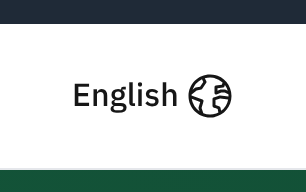
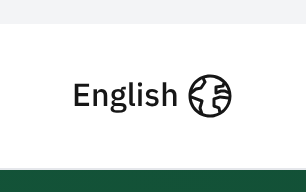
Apply the SDGA Home Page Template to the homepage
The user pointed to SDGA's Home Page Template in Figma. Our page already
had the same header, hero, card grids and footer, so only the parts that
differ or were missing are applied:

- Section headings: display-sm bold title, text-md description, and a
  40px outline button at the far end.
- Sections alternate white and neutral-50 with no borders.
- Tilawat stats follow the template's stats: open, centered, a 56px
  circle icon, a display-lg number and a label.
- New partners section (Tibyan) and a last-modified strip above the
  footer.
- The top notice is a neutral-100 strip in the Digital Stamp style. It
  keeps the unofficial-prototype text and makes no government claim.

The component images are re-shot, and DEV-GUIDE describes the changes.

Claude-Session: https://claude.ai/code/session_019S6Kq8qCNjTTt9ZTePhhkV

Changed region(s): [[0.0, 0.0, 1.0, 0.125]]

diff --git a/index.html b/index.html
@@ -13,11 +13,11 @@
 <script src="js/home.js" defer></script>
 <script src="js/proto-bar.js" defer></script>
 </head>
-<body class="bg-neutral-50 font-sans text-neutral-700 antialiased">
+<body class="bg-white font-sans text-neutral-700 antialiased">
 <a href="#main" class="sr-only z-50 rounded-sm bg-primary-600 px-4 py-2 text-white focus:not-sr-only focus:fixed focus:start-4 focus:top-2">تخطَّ إلى المحتوى</a>
 
-<div role="note" class="bg-neutral-800 px-4 py-2 text-center text-sm font-medium text-white">
-  نموذج تجريبي غير رسمي: الصفحة الرئيسية لمنصة الحرمين بأسلوب كود المنصات (DGA) · ليس الموقع الرسمي
+<div role="note" class="flex min-h-8 items-center bg-neutral-100 px-4 py-1.5 text-sm font-medium text-black sm:px-8">
+  نموذج تجريبي غير رسمي لمنصة الحرمين بأسلوب كود المنصات · ليس الموقع الرسمي
 </div>
 
 <header data-pc="dga-header-v2" class="sticky top-0 z-40 border-b border-neutral-200 bg-white">
@@ -63,12 +63,12 @@
 
   <section aria-labelledby="h-memory" class="mx-auto w-full max-w-[1280px] px-4 sm:px-6 xl:px-8 py-10 sm:py-16">
     
-    <div class="mb-6 flex flex-col items-start justify-between gap-4 sm:flex-row sm:items-end">
-      <div>
-        <h2 id="h-memory" class="text-display-xs font-bold text-neutral-800">ذاكرة الحرمين</h2>
-        <p class="mt-1 text-md text-neutral-500">مواد مختارة من أرشيف تسجيلات الحرمين</p>
+    <div class="mb-8 flex flex-col items-start justify-between gap-4 sm:flex-row">
+      <div class="flex flex-col gap-6">
+        <h2 id="h-memory" class="text-display-sm font-bold text-black">ذاكرة الحرمين</h2>
+        <p class="max-w-[964px] text-md text-black">مواد مختارة من أرشيف تسجيلات الحرمين</p>
       </div>
-      <button data-pc="dga-button-v2" type="button" data-out-of-scope class="inline-flex shrink-0 items-center justify-center gap-1 rounded-sm font-medium transition-colors h-8 px-3 text-sm bg-transparent text-black ring-1 ring-inset ring-neutral-300 hover:bg-neutral-100 active:bg-neutral-200"><span>عرض الكل</span></button>
+      <button data-pc="dga-button-v2" type="button" data-out-of-scope class="inline-flex shrink-0 items-center justify-center gap-1 rounded-sm font-medium transition-colors h-10 px-4 text-md bg-transparent text-black ring-1 ring-inset ring-neutral-300 hover:bg-neutral-100 active:bg-neutral-200"><span>عرض الكل</span></button>
     </div>
     <div data-pc="dga-tabs-v2" role="tablist" aria-label="تصفية حسب المكان" data-filter="memory" class="mb-6 flex overflow-x-auto border-b border-neutral-200"><button data-pc="dga-tab" type="button" role="tab" aria-selected="true" data-value="all" class="relative inline-flex shrink-0 items-center gap-2 px-4 py-3 text-sm font-medium text-neutral-600 transition-colors hover:bg-neutral-100 hover:text-black aria-selected:font-semibold aria-selected:text-black after:absolute after:inset-x-4 after:bottom-0 after:h-[3px] after:rounded-full after:bg-transparent hover:after:bg-neutral-300 aria-selected:after:bg-primary-600 aria-selected:hover:bg-transparent focus-visible:outline-3 focus-visible:-outline-offset-3 focus-visible:outline-black">الكل</button><button data-pc="dga-tab" type="button" role="tab" aria-selected="false" data-value="haram" class="relative inline-flex shrink-0 items-center gap-2 px-4 py-3 text-sm font-medium text-neutral-600 transition-colors hover:bg-neutral-100 hover:text-black aria-selected:font-semibold aria-selected:text-black after:absolute after:inset-x-4 after:bottom-0 after:h-[3px] after:rounded-full after:bg-transparent hover:after:bg-neutral-300 aria-selected:after:bg-primary-600 aria-selected:hover:bg-transparent focus-visible:outline-3 focus-visible:-outline-offset-3 focus-visible:outline-black">المسجد الحرام</button><button data-pc="dga-tab" type="button" role="tab" aria-selected="false" data-value="nabawi" class="relative inline-flex shrink-0 items-center gap-2 px-4 py-3 text-sm font-medium text-neutral-600 transition-colors hover:bg-neutral-100 hover:text-black aria-selected:font-semibold aria-selected:text-black after:absolute after:inset-x-4 after:bottom-0 after:h-[3px] after:rounded-full after:bg-transparent hover:after:bg-neutral-300 aria-selected:after:bg-primary-600 aria-selected:hover:bg-transparent focus-visible:outline-3 focus-visible:-outline-offset-3 focus-visible:outline-black">المسجد النبوي</button></div>
     <div id="grid-memory" class="grid grid-cols-[repeat(auto-fill,minmax(min(100%,272px),1fr))] gap-6">
@@ -162,15 +162,15 @@
       </article></div>
   </section>
 
-  <section aria-labelledby="h-lessons" class="border-y border-neutral-200 bg-white py-10 sm:py-16">
+  <section aria-labelledby="h-lessons" class="bg-neutral-50 py-10 sm:py-16">
     <div class="mx-auto w-full max-w-[1280px] px-4 sm:px-6 xl:px-8">
       
-    <div class="mb-6 flex flex-col items-start justify-between gap-4 sm:flex-row sm:items-end">
-      <div>
-        <h2 id="h-lessons" class="text-display-xs font-bold text-neutral-800">الدروس والمحاضرات</h2>
-        <p class="mt-1 text-md text-neutral-500">الدروس العلمية والدورات والمحاضرات التي قدّمها العلماء في الحرمين الشريفين</p>
+    <div class="mb-8 flex flex-col items-start justify-between gap-4 sm:flex-row">
+      <div class="flex flex-col gap-6">
+        <h2 id="h-lessons" class="text-display-sm font-bold text-black">الدروس والمحاضرات</h2>
+        <p class="max-w-[964px] text-md text-black">الدروس العلمية والدورات والمحاضرات التي قدّمها العلماء في الحرمين الشريفين</p>
       </div>
-      <button data-pc="dga-button-v2" type="button" data-out-of-scope class="inline-flex shrink-0 items-center justify-center gap-1 rounded-sm font-medium transition-colors h-8 px-3 text-sm bg-transparent text-black ring-1 ring-inset ring-neutral-300 hover:bg-neutral-100 active:bg-neutral-200"><span>عرض الكل</span></button>
+      <button data-pc="dga-button-v2" type="button" data-out-of-scope class="inline-flex shrink-0 items-center justify-center gap-1 rounded-sm font-medium transition-colors h-10 px-4 text-md bg-transparent text-black ring-1 ring-inset ring-neutral-300 hover:bg-neutral-100 active:bg-neutral-200"><span>عرض الكل</span></button>
     </div>
       <div data-pc="dga-tabs-v2" role="tablist" aria-label="تصفية حسب المكان" data-filter="lessons" class="mb-6 flex overflow-x-auto border-b border-neutral-200"><button data-pc="dga-tab" type="button" role="tab" aria-selected="true" data-value="all" class="relative inline-flex shrink-0 items-center gap-2 px-4 py-3 text-sm font-medium text-neutral-600 transition-colors hover:bg-neutral-100 hover:text-black aria-selected:font-semibold aria-selected:text-black after:absolute after:inset-x-4 after:bottom-0 after:h-[3px] after:rounded-full after:bg-transparent hover:after:bg-neutral-300 aria-selected:after:bg-primary-600 aria-selected:hover:bg-transparent focus-visible:outline-3 focus-visible:-outline-offset-3 focus-visible:outline-black">الكل</button><button data-pc="dga-tab" type="button" role="tab" aria-selected="false" data-value="haram" class="relative inline-flex shrink-0 items-center gap-2 px-4 py-3 text-sm font-medium text-neutral-600 transition-colors hover:bg-neutral-100 hover:text-black aria-selected:font-semibold aria-selected:text-black after:absolute after:inset-x-4 after:bottom-0 after:h-[3px] after:rounded-full after:bg-transparent hover:after:bg-neutral-300 aria-selected:after:bg-primary-600 aria-selected:hover:bg-transparent focus-visible:outline-3 focus-visible:-outline-offset-3 focus-visible:outline-black">المسجد الحرام</button><button data-pc="dga-tab" type="button" role="tab" aria-selected="false" data-value="nabawi" class="relative inline-flex shrink-0 items-center gap-2 px-4 py-3 text-sm font-medium text-neutral-600 transition-colors hover:bg-neutral-100 hover:text-black aria-selected:font-semibold aria-selected:text-black after:absolute after:inset-x-4 after:bottom-0 after:h-[3px] after:rounded-full after:bg-transparent hover:after:bg-neutral-300 aria-selected:after:bg-primary-600 aria-selected:hover:bg-transparent focus-visible:outline-3 focus-visible:-outline-offset-3 focus-visible:outline-black">المسجد النبوي</button></div>
       <div id="grid-lessons" class="grid grid-cols-[repeat(auto-fill,minmax(min(100%,272px),1fr))] gap-6">
@@ -267,12 +267,12 @@
 
   <section aria-labelledby="h-speeches" class="mx-auto w-full max-w-[1280px] px-4 sm:px-6 xl:px-8 py-10 sm:py-16">
     
-    <div class="mb-6 flex flex-col items-start justify-between gap-4 sm:flex-row sm:items-end">
-      <div>
-        <h2 id="h-speeches" class="text-display-xs font-bold text-neutral-800">الخطب المنبرية</h2>
-        <p class="mt-1 text-md text-neutral-500">خطب الجمعة والعيدين وعرفة والاستسقاء والكسوف</p>
+    <div class="mb-8 flex flex-col items-start justify-between gap-4 sm:flex-row">
+      <div class="flex flex-col gap-6">
+        <h2 id="h-speeches" class="text-display-sm font-bold text-black">الخطب المنبرية</h2>
+        <p class="max-w-[964px] text-md text-black">خطب الجمعة والعيدين وعرفة والاستسقاء والكسوف</p>
       </div>
-      <button data-pc="dga-button-v2" type="button" data-out-of-scope class="inline-flex shrink-0 items-center justify-center gap-1 rounded-sm font-medium transition-colors h-8 px-3 text-sm bg-transparent text-black ring-1 ring-inset ring-neutral-300 hover:bg-neutral-100 active:bg-neutral-200"><span>عرض الكل</span></button>
+      <button data-pc="dga-button-v2" type="button" data-out-of-scope class="inline-flex shrink-0 items-center justify-center gap-1 rounded-sm font-medium transition-colors h-10 px-4 text-md bg-transparent text-black ring-1 ring-inset ring-neutral-300 hover:bg-neutral-100 active:bg-neutral-200"><span>عرض الكل</span></button>
     </div>
     <div id="grid-speeches" class="grid grid-cols-[repeat(auto-fill,minmax(min(100%,272px),1fr))] gap-6">
       <article data-pc="dga-card-v2" data-place="haram" class="flex h-full min-w-0 flex-col rounded-lg border border-neutral-300 bg-white p-4 transition-shadow hover:shadow-md">
@@ -365,28 +365,28 @@
       </article></div>
   </section>
 
-  <section aria-labelledby="h-tilawat" class="border-y border-primary-200 bg-primary-25 py-10 sm:py-16">
+  <section aria-labelledby="h-tilawat" class="bg-neutral-50 py-10 sm:py-16">
     <div class="mx-auto w-full max-w-[1280px] px-4 sm:px-6 xl:px-8">
       
-    <div class="mb-6 flex flex-col items-start justify-between gap-4 sm:flex-row sm:items-end">
-      <div>
-        <h2 id="h-tilawat" class="text-display-xs font-bold text-neutral-800">التلاوات</h2>
-        <p class="mt-1 text-md text-neutral-500">تلاوات أئمة الحرمين في الصلوات والتراويح، وأدعية القنوت، والمصاحف الكاملة</p>
+    <div class="mb-8 flex flex-col items-start justify-between gap-4 sm:flex-row">
+      <div class="flex flex-col gap-6">
+        <h2 id="h-tilawat" class="text-display-sm font-bold text-black">التلاوات</h2>
+        <p class="max-w-[964px] text-md text-black">تلاوات أئمة الحرمين في الصلوات والتراويح، وأدعية القنوت، والمصاحف الكاملة</p>
       </div>
-      <button data-pc="dga-button-v2" type="button" data-out-of-scope class="inline-flex shrink-0 items-center justify-center gap-1 rounded-sm font-medium transition-colors h-8 px-3 text-sm bg-transparent text-black ring-1 ring-inset ring-neutral-300 hover:bg-neutral-100 active:bg-neutral-200"><span>عرض الكل</span></button>
+      <button data-pc="dga-button-v2" type="button" data-out-of-scope class="inline-flex shrink-0 items-center justify-center gap-1 rounded-sm font-medium transition-colors h-10 px-4 text-md bg-transparent text-black ring-1 ring-inset ring-neutral-300 hover:bg-neutral-100 active:bg-neutral-200"><span>عرض الكل</span></button>
     </div>
-      <div class="mb-8 grid grid-cols-[repeat(auto-fit,minmax(min(100%,220px),1fr))] gap-4"><div class="flex items-center gap-4 rounded-lg border border-neutral-200 bg-white p-5">
-          <span data-pc="dga-featured-icon" class="inline-flex size-12 shrink-0 items-center justify-center rounded-full bg-primary-50 text-primary-600"><span data-pc="dga-icon" aria-hidden="true" class="inline-block size-6 shrink-0 bg-current " style="mask:url(https://cdn.jsdelivr.net/npm/@platformscode/icons@0.0.11/dist/svg/quran-01-stroke.svg) center/contain no-repeat;-webkit-mask:url(https://cdn.jsdelivr.net/npm/@platformscode/icons@0.0.11/dist/svg/quran-01-stroke.svg) center/contain no-repeat"></span></span>
-          <div><p class="text-display-xs font-bold text-neutral-800 tabular-nums">+٣٠٣١</p><p class="text-sm font-medium text-neutral-500">إجمالي التلاوات</p></div>
-        </div><div class="flex items-center gap-4 rounded-lg border border-neutral-200 bg-white p-5">
-          <span data-pc="dga-featured-icon" class="inline-flex size-12 shrink-0 items-center justify-center rounded-full bg-primary-50 text-primary-600"><span data-pc="dga-icon" aria-hidden="true" class="inline-block size-6 shrink-0 bg-current " style="mask:url(https://cdn.jsdelivr.net/npm/@platformscode/icons@0.0.11/dist/svg/prayer-rug-01-stroke.svg) center/contain no-repeat;-webkit-mask:url(https://cdn.jsdelivr.net/npm/@platformscode/icons@0.0.11/dist/svg/prayer-rug-01-stroke.svg) center/contain no-repeat"></span></span>
-          <div><p class="text-display-xs font-bold text-neutral-800 tabular-nums">+٢٠</p><p class="text-sm font-medium text-neutral-500">أدعية القنوت</p></div>
-        </div><div class="flex items-center gap-4 rounded-lg border border-neutral-200 bg-white p-5">
-          <span data-pc="dga-featured-icon" class="inline-flex size-12 shrink-0 items-center justify-center rounded-full bg-primary-50 text-primary-600"><span data-pc="dga-icon" aria-hidden="true" class="inline-block size-6 shrink-0 bg-current " style="mask:url(https://cdn.jsdelivr.net/npm/@platformscode/icons@0.0.11/dist/svg/user-stroke.svg) center/contain no-repeat;-webkit-mask:url(https://cdn.jsdelivr.net/npm/@platformscode/icons@0.0.11/dist/svg/user-stroke.svg) center/contain no-repeat"></span></span>
-          <div><p class="text-display-xs font-bold text-neutral-800 tabular-nums">+٢٠</p><p class="text-sm font-medium text-neutral-500">القارئ</p></div>
-        </div><div class="flex items-center gap-4 rounded-lg border border-neutral-200 bg-white p-5">
-          <span data-pc="dga-featured-icon" class="inline-flex size-12 shrink-0 items-center justify-center rounded-full bg-primary-50 text-primary-600"><span data-pc="dga-icon" aria-hidden="true" class="inline-block size-6 shrink-0 bg-current " style="mask:url(https://cdn.jsdelivr.net/npm/@platformscode/icons@0.0.11/dist/svg/mic-01-stroke.svg) center/contain no-repeat;-webkit-mask:url(https://cdn.jsdelivr.net/npm/@platformscode/icons@0.0.11/dist/svg/mic-01-stroke.svg) center/contain no-repeat"></span></span>
-          <div><p class="text-display-xs font-bold text-neutral-800 tabular-nums">+٤</p><p class="text-sm font-medium text-neutral-500">مصحف مسجل</p></div>
+      <div class="mx-auto mb-10 grid max-w-[992px] grid-cols-2 gap-4 sm:grid-cols-4 sm:gap-8"><div class="flex flex-col items-center gap-6 rounded-lg p-4 text-center">
+          <span data-pc="dga-featured-icon" class="inline-flex size-14 shrink-0 items-center justify-center rounded-full bg-primary-50 text-primary-600"><span data-pc="dga-icon" aria-hidden="true" class="inline-block size-7 shrink-0 bg-current " style="mask:url(https://cdn.jsdelivr.net/npm/@platformscode/icons@0.0.11/dist/svg/quran-01-stroke.svg) center/contain no-repeat;-webkit-mask:url(https://cdn.jsdelivr.net/npm/@platformscode/icons@0.0.11/dist/svg/quran-01-stroke.svg) center/contain no-repeat"></span></span>
+          <div class="flex flex-col gap-2"><p class="text-display-lg tracking-tight text-primary-800 tabular-nums">+٣٠٣١</p><p class="text-md text-neutral-800">إجمالي التلاوات</p></div>
+        </div><div class="flex flex-col items-center gap-6 rounded-lg p-4 text-center">
+          <span data-pc="dga-featured-icon" class="inline-flex size-14 shrink-0 items-center justify-center rounded-full bg-primary-50 text-primary-600"><span data-pc="dga-icon" aria-hidden="true" class="inline-block size-7 shrink-0 bg-current " style="mask:url(https://cdn.jsdelivr.net/npm/@platformscode/icons@0.0.11/dist/svg/prayer-rug-01-stroke.svg) center/contain no-repeat;-webkit-mask:url(https://cdn.jsdelivr.net/npm/@platformscode/icons@0.0.11/dist/svg/prayer-rug-01-stroke.svg) center/contain no-repeat"></span></span>
+          <div class="flex flex-col gap-2"><p class="text-display-lg tracking-tight text-primary-800 tabular-nums">+٢٠</p><p class="text-md text-neutral-800">أدعية القنوت</p></div>
+        </div><div class="flex flex-col items-center gap-6 rounded-lg p-4 text-center">
+          <span data-pc="dga-featured-icon" class="inline-flex size-14 shrink-0 items-center justify-center rounded-full bg-primary-50 text-primary-600"><span data-pc="dga-icon" aria-hidden="true" class="inline-block size-7 shrink-0 bg-current " style="mask:url(https://cdn.jsdelivr.net/npm/@platformscode/icons@0.0.11/dist/svg/user-stroke.svg) center/contain no-repeat;-webkit-mask:url(https://cdn.jsdelivr.net/npm/@platformscode/icons@0.0.11/dist/svg/user-stroke.svg) center/contain no-repeat"></span></span>
+          <div class="flex flex-col gap-2"><p class="text-display-lg tracking-tight text-primary-800 tabular-nums">+٢٠</p><p class="text-md text-neutral-800">القارئ</p></div>
+        </div><div class="flex flex-col items-center gap-6 rounded-lg p-4 text-center">
+          <span data-pc="dga-featured-icon" class="inline-flex size-14 shrink-0 items-center justify-center rounded-full bg-primary-50 text-primary-600"><span data-pc="dga-icon" aria-hidden="true" class="inline-block size-7 shrink-0 bg-current " style="mask:url(https://cdn.jsdelivr.net/npm/@platformscode/icons@0.0.11/dist/svg/mic-01-stroke.svg) center/contain no-repeat;-webkit-mask:url(https://cdn.jsdelivr.net/npm/@platformscode/icons@0.0.11/dist/svg/mic-01-stroke.svg) center/contain no-repeat"></span></span>
+          <div class="flex flex-col gap-2"><p class="text-display-lg tracking-tight text-primary-800 tabular-nums">+٤</p><p class="text-md text-neutral-800">مصحف مسجل</p></div>
         </div></div>
       <div id="grid-tilawat" class="grid grid-cols-[repeat(auto-fill,minmax(min(100%,272px),1fr))] gap-6">
       <article data-pc="dga-card-v2" data-place="nabawi" class="flex h-full min-w-0 flex-col rounded-lg border border-neutral-300 bg-white p-4 transition-shadow hover:shadow-md">
@@ -438,12 +438,12 @@
 
   <section aria-labelledby="h-selected" class="mx-auto w-full max-w-[1280px] px-4 sm:px-6 xl:px-8 py-10 sm:py-16">
     
-    <div class="mb-6 flex flex-col items-start justify-between gap-4 sm:flex-row sm:items-end">
-      <div>
-        <h2 id="h-selected" class="text-display-xs font-bold text-neutral-800">المختارات</h2>
-        <p class="mt-1 text-md text-neutral-500">فوائد منتقاة من الخطب والدروس والمحاضرات</p>
+    <div class="mb-8 flex flex-col items-start justify-between gap-4 sm:flex-row">
+      <div class="flex flex-col gap-6">
+        <h2 id="h-selected" class="text-display-sm font-bold text-black">المختارات</h2>
+        <p class="max-w-[964px] text-md text-black">فوائد منتقاة من الخطب والدروس والمحاضرات</p>
       </div>
-      <button data-pc="dga-button-v2" type="button" data-out-of-scope class="inline-flex shrink-0 items-center justify-center gap-1 rounded-sm font-medium transition-colors h-8 px-3 text-sm bg-transparent text-black ring-1 ring-inset ring-neutral-300 hover:bg-neutral-100 active:bg-neutral-200"><span>عرض الكل</span></button>
+      <button data-pc="dga-button-v2" type="button" data-out-of-scope class="inline-flex shrink-0 items-center justify-center gap-1 rounded-sm font-medium transition-colors h-10 px-4 text-md bg-transparent text-black ring-1 ring-inset ring-neutral-300 hover:bg-neutral-100 active:bg-neutral-200"><span>عرض الكل</span></button>
     </div>
     <div data-pc="dga-tabs-v2" role="tablist" aria-label="نوع المحتوى" data-filter="selected" class="mb-6 flex overflow-x-auto border-b border-neutral-200"><button data-pc="dga-tab" type="button" role="tab" aria-selected="true" data-value="video" class="relative inline-flex shrink-0 items-center gap-2 px-4 py-3 text-sm font-medium text-neutral-600 transition-colors hover:bg-neutral-100 hover:text-black aria-selected:font-semibold aria-selected:text-black after:absolute after:inset-x-4 after:bottom-0 after:h-[3px] after:rounded-full after:bg-transparent hover:after:bg-neutral-300 aria-selected:after:bg-primary-600 aria-selected:hover:bg-transparent focus-visible:outline-3 focus-visible:-outline-offset-3 focus-visible:outline-black"><span data-pc="dga-icon" aria-hidden="true" class="inline-block size-4 shrink-0 bg-current " style="mask:url(https://cdn.jsdelivr.net/npm/@platformscode/icons@0.0.11/dist/svg/video-01-stroke.svg) center/contain no-repeat;-webkit-mask:url(https://cdn.jsdelivr.net/npm/@platformscode/icons@0.0.11/dist/svg/video-01-stroke.svg) center/contain no-repeat"></span>مرئي</button><button data-pc="dga-tab" type="button" role="tab" aria-selected="false" data-value="text" data-out-of-scope class="relative inline-flex shrink-0 items-center gap-2 px-4 py-3 text-sm font-medium text-neutral-600 transition-colors hover:bg-neutral-100 hover:text-black aria-selected:font-semibold aria-selected:text-black after:absolute after:inset-x-4 after:bottom-0 after:h-[3px] after:rounded-full after:bg-transparent hover:after:bg-neutral-300 aria-selected:after:bg-primary-600 aria-selected:hover:bg-transparent focus-visible:outline-3 focus-visible:-outline-offset-3 focus-visible:outline-black"><span data-pc="dga-icon" aria-hidden="true" class="inline-block size-4 shrink-0 bg-current " style="mask:url(https://cdn.jsdelivr.net/npm/@platformscode/icons@0.0.11/dist/svg/file-01-stroke.svg) center/contain no-repeat;-webkit-mask:url(https://cdn.jsdelivr.net/npm/@platformscode/icons@0.0.11/dist/svg/file-01-stroke.svg) center/contain no-repeat"></span>نصي</button></div>
     <div id="grid-selected" class="grid grid-cols-[repeat(auto-fill,minmax(min(100%,272px),1fr))] gap-6">
@@ -481,6 +481,19 @@
         </div>
       </article></div>
   </section>
+
+  <section aria-labelledby="h-partners" class="bg-neutral-50 py-10">
+    <div class="mx-auto w-full max-w-[1280px] px-4 sm:px-6 xl:px-8 flex flex-col gap-8">
+      <h2 id="h-partners" class="text-display-sm font-bold text-black">شركاء النجاح</h2>
+      <ul class="flex flex-wrap gap-4">
+        <li><a href="#" data-out-of-scope class="flex h-[120px] w-[136px] items-center justify-center rounded-lg border border-neutral-300 bg-white p-4 hover:border-neutral-400"><img src="https://alharamain-app-beta.it4islam.com/_next/static/media/ty-logo.1xz5pe5m0wvvz.svg" alt="تبيان" width="104" height="59" class="w-[104px]"></a></li>
+      </ul>
+    </div>
+  </section>
+
+  <div class="bg-white py-4">
+    <p class="mx-auto w-full max-w-[1280px] px-4 sm:px-6 xl:px-8 text-sm text-black">تاريخ آخر تعديل: 20/10/2026</p>
+  </div>
 </main>
 
 <footer data-pc="dga-footer" class="bg-success-900 px-4 text-white sm:px-8">

diff --git a/scripts/build-home.py b/scripts/build-home.py
@@ -13,11 +13,13 @@ the official one. Developers copy these class lists into the real site's JSX.
 """
 import html
 import json
+from datetime import date
 from pathlib import Path
 
 PC_ICONS = "https://cdn.jsdelivr.net/npm/@platformscode/icons@0.0.11/dist/svg"
 ORIGIN = "https://alharamain-app-beta.it4islam.com"
 LOGO = ORIGIN + "/_next/static/media/HeaderLogo.04gd8s9fp0yqt.svg"
+TIBYAN_LOGO = ORIGIN + "/_next/static/media/ty-logo.1xz5pe5m0wvvz.svg"
 HERO_IMAGE = ORIGIN + "/images/lessons-bg.webp"
 FALLBACK_IMAGE = {"haram": ORIGIN + "/images/maka.webp", "nabawi": ORIGIN + "/images/madina.webp"}
 
@@ -72,8 +74,8 @@ def tag(label, variant="neutral", size="sm"):
 
 
 def featured_icon(name, size="lg", color="brand"):
-    """dga-featured-icon (circle, light). lg = 48px/24px icon, md = 40px/20px icon."""
-    box, ico = {"lg": ("size-12", 6), "md": ("size-10", 5)}[size]
+    """dga-featured-icon (circle, light). xl = 56px/28px icon, lg = 48px/24px, md = 40px/20px."""
+    box, ico = {"xl": ("size-14", 7), "lg": ("size-12", 6), "md": ("size-10", 5)}[size]
     colors = {"brand": "bg-primary-50 text-primary-600", "info": "bg-info-50 text-info-700"}[color]
     return f'<span data-pc="dga-featured-icon" class="inline-flex {box} shrink-0 items-center justify-center rounded-full {colors}">{icon(name, ico)}</span>'
 
@@ -148,13 +150,15 @@ def card(item, show_place=True):
 # ---- Page sections -----------------------------------------------------------
 
 def section_head(sec, key):
+    """Section title as in the SDGA Home Page Template: display-sm bold title and a
+    text-md description, with the secondary action at the far end."""
     return f"""
-    <div class="mb-6 flex flex-col items-start justify-between gap-4 sm:flex-row sm:items-end">
-      <div>
-        <h2 id="h-{key}" class="text-display-xs font-bold text-neutral-800">{e(sec['title'])}</h2>
-        <p class="mt-1 text-md text-neutral-500">{e(sec['subtitle'])}</p>
+    <div class="mb-8 flex flex-col items-start justify-between gap-4 sm:flex-row">
+      <div class="flex flex-col gap-6">
+        <h2 id="h-{key}" class="text-display-sm font-bold text-black">{e(sec['title'])}</h2>
+        <p class="max-w-[964px] text-md text-black">{e(sec['subtitle'])}</p>
       </div>
-      {button("عرض الكل", "secondary-outline", "md", 'type="button" data-out-of-scope')}
+      {button("عرض الكل", "secondary-outline", "lg", 'type="button" data-out-of-scope')}
     </div>"""
 
 
@@ -279,9 +283,9 @@ def footer(d):
 def build(d):
     S = d["sections"]
     stats = "".join(
-        f"""<div class="flex items-center gap-4 rounded-lg border border-neutral-200 bg-white p-5">
-          {featured_icon(STAT_ICON.get(s['label'], 'star'))}
-          <div><p class="text-display-xs font-bold text-neutral-800 tabular-nums">+{e(s['value'])}</p><p class="text-sm font-medium text-neutral-500">{e(s['label'])}</p></div>
+        f"""<div class="flex flex-col items-center gap-6 rounded-lg p-4 text-center">
+          {featured_icon(STAT_ICON.get(s['label'], 'star'), "xl")}
+          <div class="flex flex-col gap-2"><p class="text-display-lg tracking-tight text-primary-800 tabular-nums">+{e(s['value'])}</p><p class="text-md text-neutral-800">{e(s['label'])}</p></div>
         </div>"""
         for s in S["tilawat"].get("stats", [])
     )
@@ -300,11 +304,11 @@ def build(d):
 <script src="js/home.js" defer></script>
 <script src="js/proto-bar.js" defer></script>
 </head>
-<body class="bg-neutral-50 font-sans text-neutral-700 antialiased">
+<body class="bg-white font-sans text-neutral-700 antialiased">
 <a href="#main" class="sr-only z-50 rounded-sm bg-primary-600 px-4 py-2 text-white focus:not-sr-only focus:fixed focus:start-4 focus:top-2">تخطَّ إلى المحتوى</a>
 
-<div role="note" class="bg-neutral-800 px-4 py-2 text-center text-sm font-medium text-white">
-  نموذج تجريبي غير رسمي: الصفحة الرئيسية لمنصة الحرمين بأسلوب كود المنصات (DGA) · ليس الموقع الرسمي
+<div role="note" class="flex min-h-8 items-center bg-neutral-100 px-4 py-1.5 text-sm font-medium text-black sm:px-8">
+  نموذج تجريبي غير رسمي لمنصة الحرمين بأسلوب كود المنصات · ليس الموقع الرسمي
 </div>
 {header(d)}
 {drawer(d)}
@@ -333,7 +337,7 @@ def build(d):
     {grid(S['memory']['items'], 'memory')}
   </section>
 
-  <section aria-labelledby="h-lessons" class="border-y border-neutral-200 bg-white py-10 sm:py-16">
+  <section aria-labelledby="h-lessons" class="bg-neutral-50 py-10 sm:py-16">
     <div class="{CONTAINER}">
       {section_head(S['lessons'], 'lessons')}
       {tabs(PLACE_TABS, 'lessons', 'all', 'تصفية حسب المكان')}
@@ -346,10 +350,10 @@ def build(d):
     {grid(S['speeches']['items'], 'speeches')}
   </section>
 
-  <section aria-labelledby="h-tilawat" class="border-y border-primary-200 bg-primary-25 py-10 sm:py-16">
+  <section aria-labelledby="h-tilawat" class="bg-neutral-50 py-10 sm:py-16">
     <div class="{CONTAINER}">
       {section_head(S['tilawat'], 'tilawat')}
-      <div class="mb-8 grid grid-cols-[repeat(auto-fit,minmax(min(100%,220px),1fr))] gap-4">{stats}</div>
+      <div class="mx-auto mb-10 grid max-w-[992px] grid-cols-2 gap-4 sm:grid-cols-4 sm:gap-8">{stats}</div>
       {grid(S['tilawat']['items'], 'tilawat')}
     </div>
   </section>
@@ -359,6 +363,19 @@ def build(d):
     {tabs([("video", "مرئي", "video-01"), ("text", "نصي", "file-01")], 'selected', 'video', 'نوع المحتوى', out_of_scope=("text",))}
     {grid(S['selected']['items'], 'selected', show_place=False)}
   </section>
+
+  <section aria-labelledby="h-partners" class="bg-neutral-50 py-10">
+    <div class="{CONTAINER} flex flex-col gap-8">
+      <h2 id="h-partners" class="text-display-sm font-bold text-black">{e(d['footer'].get('partners_title') or 'شركاء النجاح')}</h2>
+      <ul class="flex flex-wrap gap-4">
+        <li><a href="#" data-out-of-scope class="flex h-[120px] w-[136px] items-center justify-center rounded-lg border border-neutral-300 bg-white p-4 hover:border-neutral-400"><img src="{TIBYAN_LOGO}" alt="تبيان" width="104" height="59" class="w-[104px]"></a></li>
+      </ul>
+    </div>
+  </section>
+
+  <div class="bg-white py-4">
+    <p class="{CONTAINER} text-sm text-black">تاريخ آخر تعديل: {date.today():%d/%m/%Y}</p>
+  </div>
 </main>
 {footer(d)}
 
